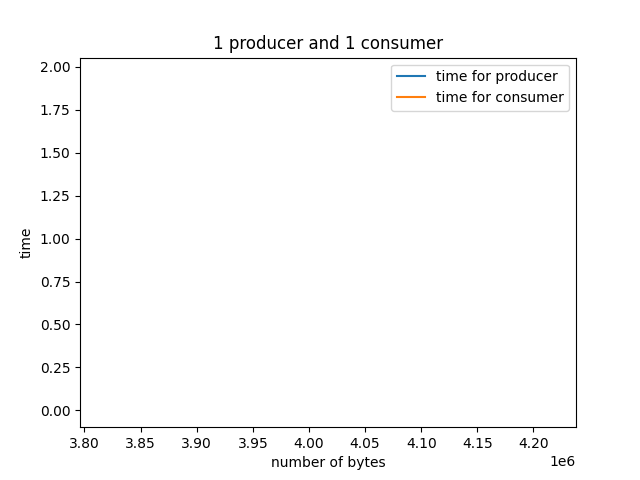
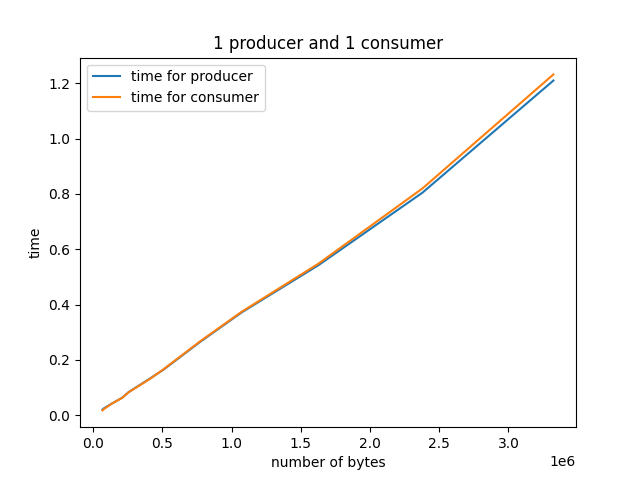
Adjustment parameters

diff --git a/kafka-scalibility-test/multimachine_tests/main_node.py b/kafka-scalibility-test/multimachine_tests/main_node.py
@@ -4,8 +4,8 @@ import threading
 import time
 import matplotlib.pyplot as plt
 
-local_mode = True
-
+local_mode = False
+consumer_timeout_ms = 2000
 # only these machines have pip and we don't have sudo apt-install permission
 hostnames = [f'10.1.0.{i}' for i in range(2, 5)] + ['10.1.0.7', '10.1.0.9', '10.1.0.11', '10.1.0.13']
 password = 'ece1759'
@@ -20,19 +20,21 @@ def connect_host(seq):
 
 def init_machine(machine_number):
     client = connect_host(machine_number)
-    return client.run(f'git clone https://github.com/LeonhardE/kafka-1759.git;\
-            cd kafka-1759/;\
-            pip install -r requirements.txt;\
-        ')
+    client.run(f'cd kafka-1759/;\
+                git pull;\
+                pip install -r requirements.txt;\
+            ')
     
-def init_machines():
-    for i in range(7):
+def init_machines(seq):
+    for i in range(seq):
         init_machine(i)  
 
 class Tester:
     def __init__(self, topic, total_records, producers, consumers): 
         self.topic = topic
         self.total_records = total_records
+        if producers + consumers > len(hostnames):
+            raise Exception(f'Not enough machines to run {producers} producers and {consumers} consumers')
         self.total_producers = producers
         self.total_consumers = consumers
         self.producers_time = [0 for _ in range(self.total_producers)]
@@ -66,11 +68,7 @@ class Tester:
     
     def run_script(self, machine_number, script_name):
         client = connect_host(machine_number)
-        client.run(f'cd kafka-1759/;\
-                git pull;\
-                pip install -r requirements.txt;\
-            ')
-        return client.run(f'python3 kafka-1759/kafka-scalibility-test/multimachine_tests/{script_name}.py --topic {self.topic} --total_records {self.total_records} --total_producers {self.total_producers} --total_consumers {self.total_consumers}')
+        return client.run(f'python3 kafka-1759/kafka-scalibility-test/multimachine_tests/{script_name}.py --topic {self.topic} --total_records {self.total_records} --total_producers {self.total_producers} --total_consumers {self.total_consumers} --consumer_timeout_ms {consumer_timeout_ms}')
         
     def produce(self, seq):
         res = self.run_script(seq, 'producer_node').stdout
@@ -82,7 +80,7 @@ class Tester:
     def consume(self, seq):
         res = self.run_script(seq, 'consumer_node').stdout
         print('this is consumer results', res)
-        self.producers_time[seq - self.total_producers] = float(res)
+        self.consumers_time[seq - self.total_producers] = float(res)
 
    
 def test6():
@@ -91,7 +89,8 @@ def test6():
     x = []
     yProduce = []
     yConsume = []
-    while total_records < 101:
+    init_machines(2)
+    while total_records < 10000:
         res = Tester(test_name, total_records, 1, 1).run()
         yProduce.append(sum(res[0]))
         yConsume.append(sum(res[1]))
@@ -99,7 +98,8 @@ def test6():
         total_records = int(total_records * 1.5)
     import numpy as np
     print(x, yProduce, yConsume)
-    print(np.polyfit(x, yProduce, 1))
+    a, b = np.polyfit(x, yProduce, 1)
+    print(f'a = {a}, b = {b}, speed = {(1/a) / 1024 / 1024} MB/s')
     plt.clf()   
     plt.title('1 producer and 1 consumer')
     plt.xlabel('number of bytes')

diff --git a/kafka-scalibility-test/multimachine_tests/myparser.py b/kafka-scalibility-test/multimachine_tests/myparser.py
@@ -4,4 +4,4 @@ parser.add_argument('--topic', type=str, required=True, help='topic for test')
 parser.add_argument('--total_records', type=str, required=True, help='total number of records')
 parser.add_argument('--total_producers', type=str, required=True, help='total number of producers')
 parser.add_argument('--total_consumers', type=str, required=True, help='total number of consumers')
-parser.add_argument('--total_records', type=str, required=True, help='total number of records')
+parser.add_argument('--consumer_timeout_ms', type=str, required=True, help='consumer timeout in ms')

diff --git a/kafka-scalibility-test/multimachine_tests/consumer_node.py b/kafka-scalibility-test/multimachine_tests/consumer_node.py
@@ -4,11 +4,10 @@ from myparser import parser
 
 def consume():
     args = parser.parse_args()
-    print(args)
     consumer = KafkaConsumer(args.topic,
                             bootstrap_servers = '10.1.0.1:9092', 
                             auto_offset_reset="latest",
-                            consumer_timeout_ms=2000)
+                            consumer_timeout_ms=int(args.consumer_timeout_ms))
     total_time = 0
     consume_start = None
     for record in consumer:
